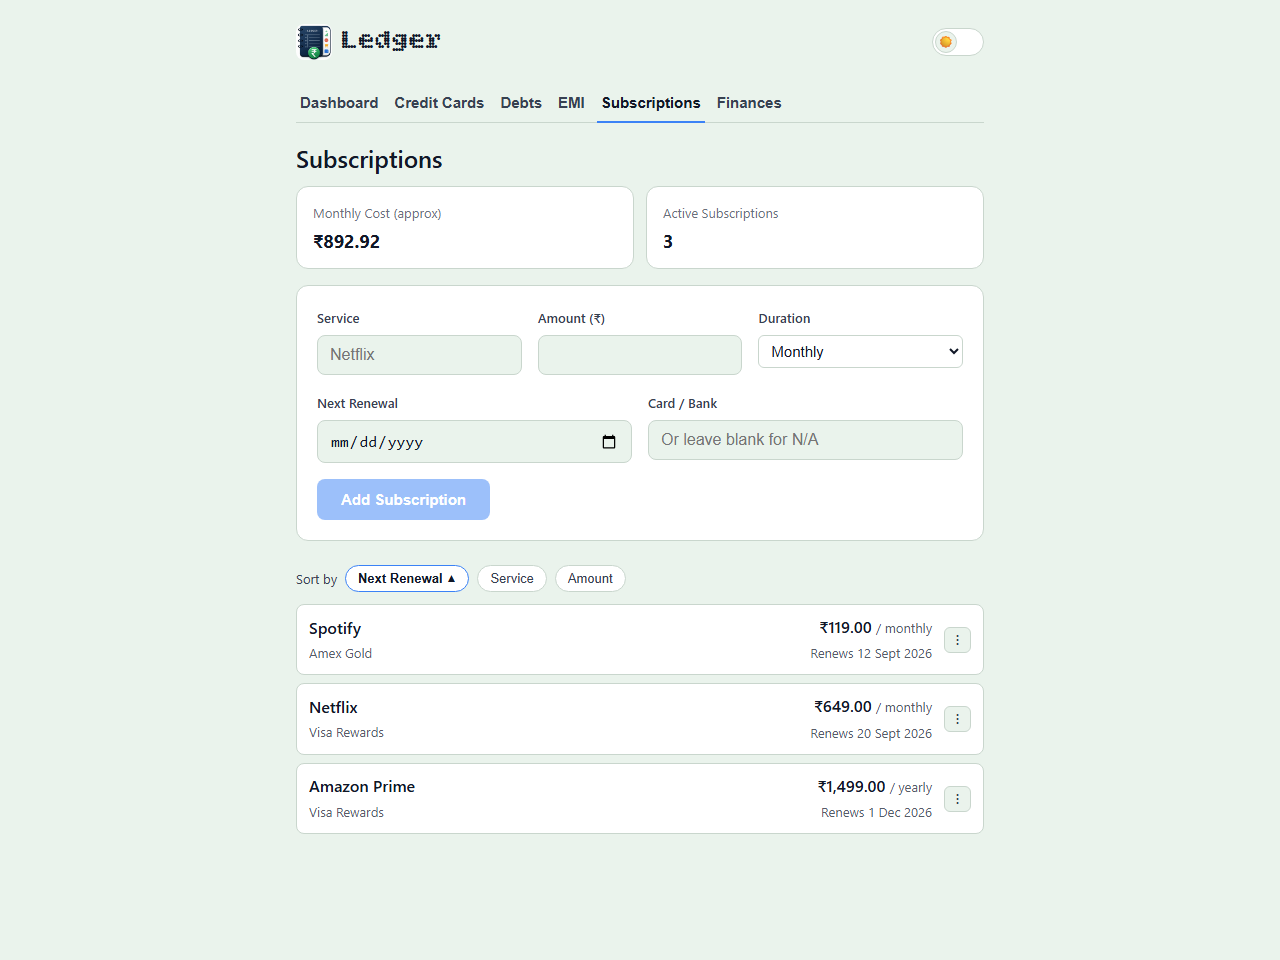
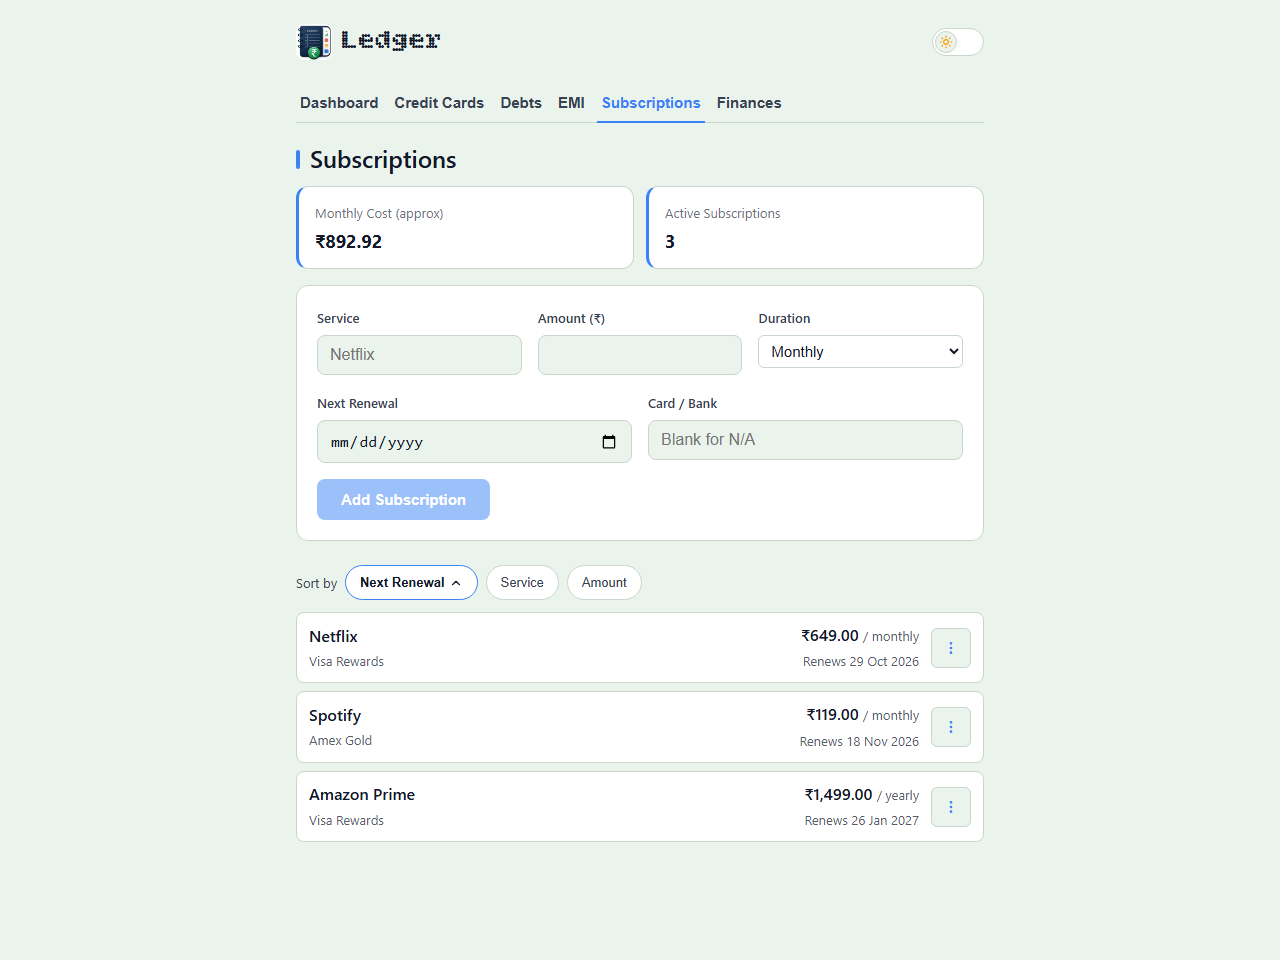
docs: npm run screenshots regenerates every README screenshot
Only the two Dashboard images were produced by the script; the other 14
README screenshots (each tab, and the Expenses form and list, light and
dark) were made by hand, so a UI change like the new icons and accents
left them stale with no safe way to refresh them. The script now seeds a
few fictional expenses too and captures every image the README embeds,
still against a scratch data folder with the empty-tab check first.

All 16 screenshots are regenerated with the new icons and accents.

diff --git a/e2e/screenshots.ts b/e2e/screenshots.ts
@@ -1,8 +1,9 @@
 /**
- * Regenerates docs/screenshots/dashboard.png and dashboard-dark.png against
- * a fixed, fictional demo dataset (Alex/Sam, Visa Rewards/Amex Gold, Car
- * Loan/Home Loan, Netflix/Spotify/Amazon Prime, Emergency Fund/PPF/NPS/APY —
- * the same cast every other screenshot in docs/screenshots already uses).
+ * Regenerates every README screenshot in docs/screenshots/ (Dashboard,
+ * Expenses form and list, and each tab, in light and dark) against a fixed,
+ * fictional demo dataset (Alex/Sam, Visa Rewards/Amex Gold, Car Loan/Home
+ * Loan, Netflix/Spotify/Amazon Prime, Emergency Fund/PPF/NPS/APY, and a few
+ * everyday expenses), so a UI change can refresh them all in one run.
  *
  * Isolation follows the exact same recipe as e2e/regression.ts, for the same
  * reason: `LEDGER_DB_DIR` is passed as an env var straight to the spawned
@@ -242,8 +243,89 @@ async function main() {
     await page.waitForTimeout(300);
     await page.screenshot({ path: path.join(SCREENSHOTS_DIR, "dashboard-dark.png") });
 
+    // --- One screenshot per tab, top of the page (dark first, since the
+    // theme is already dark from the Dashboard shot above) ---
+    const TAB_SHOTS: [label: string, file: string][] = [
+      ["Finances", "finances"],
+      ["Debts", "debts"],
+      ["Credit Cards", "credit-cards"],
+      ["EMI", "emi"],
+      ["Subscriptions", "subscriptions"],
+    ];
+    const shootTabs = async (suffix: string) => {
+      for (const [label, file] of TAB_SHOTS) {
+        await page.click(`.tabs button:has-text("${label}")`);
+        await page.waitForSelector(".loading-overlay", { state: "detached" });
+        await page.evaluate(() => window.scrollTo(0, 0));
+        await page.waitForTimeout(300);
+        await page.screenshot({ path: path.join(SCREENSHOTS_DIR, `${file}${suffix}.png`) });
+      }
+    };
+    await shootTabs("-dark");
+    await page.click(".theme-toggle");
+    await page.waitForTimeout(300);
+    await shootTabs("");
+
+    // --- Expenses: reached by clicking this month on the Dashboard chart ---
+    await page.click('.tabs button:has-text("Dashboard")');
+    await page.waitForSelector(".chart-wrap svg");
+    await page.locator(".chart-wrap").scrollIntoViewIfNeeded();
+    // No expenses exist yet, so there are no bars to target: click the middle
+    // of this month's column in the plot area instead (the chart's click
+    // handler only needs the hovered column). Re-measured each attempt, since
+    // Recharts can re-mount its elements right after render.
+    const monthIndex = new Date().getMonth();
+    for (let attempt = 0; attempt < 20 && (await page.locator(".add-expense-form").count()) === 0; attempt++) {
+      const grid = page.locator(".chart-wrap .recharts-cartesian-grid").first();
+      const gridBox = await grid.boundingBox({ timeout: 2000 }).catch(() => null);
+      if (gridBox) {
+        const x = gridBox.x + ((monthIndex + 0.5) * gridBox.width) / 12;
+        await page.mouse.move(x, gridBox.y + gridBox.height / 2, { steps: 8 });
+        await page.waitForTimeout(150);
+        await page.mouse.down();
+        await page.mouse.up();
+      }
+      await page.waitForTimeout(400);
+    }
+    await page.waitForSelector(".add-expense-form");
+    await assertEmpty(page, ".entry-row", "Expenses");
+
+    const fillExpense = async (amount: string, remarks: string, category: string, card: boolean) => {
+      await page.fill('.add-expense-form input[placeholder="0.00"]', amount);
+      await page.fill('.add-expense-form input[placeholder="What was this for?"]', remarks);
+      await page.click(`.add-expense-form .category-chip:has-text("${category}")`);
+      await page.click(`.add-expense-form .payment-toggle button:has-text("${card ? "Credit Card" : "Cash"}")`);
+    };
+    const addExpense = async (amount: string, remarks: string, category: string, card = false) => {
+      await fillExpense(amount, remarks, category, card);
+      await page.click(".add-expense-form .submit-btn");
+      await page.waitForSelector(`.entry-row:has-text("${remarks}")`);
+    };
+    await addExpense("1200", "Movie night", "Other");
+    await addExpense("18000", "Monthly rent", "Rent");
+    await addExpense("320", "Cab to airport", "Transportation", true);
+    await addExpense("850", "Grocery run", "Food");
+
+    // The form filled in (light, then dark), then the same entry saved into
+    // the month's list (dark, then light).
+    await fillExpense("250", "Coffee with a friend", "Food", false);
+    await page.evaluate(() => window.scrollTo(0, 0));
+    await page.waitForTimeout(300);
+    await page.screenshot({ path: path.join(SCREENSHOTS_DIR, "add-expense.png") });
+    await page.click(".theme-toggle");
+    await page.waitForTimeout(300);
+    await page.screenshot({ path: path.join(SCREENSHOTS_DIR, "add-expense-dark.png") });
+    await page.click(".add-expense-form .submit-btn");
+    await page.waitForSelector('.entry-row:has-text("Coffee with a friend")');
+    await page.evaluate(() => window.scrollTo(0, 0));
+    await page.waitForTimeout(300);
+    await page.screenshot({ path: path.join(SCREENSHOTS_DIR, "recent-entries-dark.png") });
+    await page.click(".theme-toggle");
+    await page.waitForTimeout(300);
+    await page.screenshot({ path: path.join(SCREENSHOTS_DIR, "recent-entries.png") });
+
     await browser.close();
-    console.log(`\nWrote dashboard.png and dashboard-dark.png to ${SCREENSHOTS_DIR}`);
+    console.log(`\nWrote every docs/screenshots/*.png (light and dark) to ${SCREENSHOTS_DIR}`);
   } finally {
     console.log("Stopping dev server...");
     if (devProcess.pid) {

diff --git a/README.md b/README.md
@@ -794,11 +794,11 @@ Two suites, covering different layers:
   any client-side change, or before considering a session's changes done.
 
 - **`npm run screenshots`** — `e2e/screenshots.ts` (Playwright, plain
-  script). Regenerates `docs/screenshots/dashboard.png` and
-  `dashboard-dark.png` against a fixed fictional demo dataset (Alex/Sam,
-  Visa Rewards/Amex Gold, Car Loan/Home Loan, Netflix/Spotify/Amazon Prime,
-  Emergency Fund/PPF/NPS/APY — the same cast every other screenshot already
-  uses). Deliberately copies `e2e/regression.ts`'s exact isolation recipe
+  script). Regenerates every screenshot in `docs/screenshots/` (Dashboard,
+  the Expenses form and list, and each tab, light and dark) against a fixed
+  fictional demo dataset (Alex/Sam, Visa Rewards/Amex Gold, Car Loan/Home
+  Loan, Netflix/Spotify/Amazon Prime, Emergency Fund/PPF/NPS/APY, and a few
+  everyday expenses). Deliberately copies `e2e/regression.ts`'s exact isolation recipe
   (`LEDGER_DB_DIR` passed as an env var to a `npm run dev` spawned on this
   checkout's own ports, never a separate custom port) rather than a
   from-scratch setup — see the comment at the top of the file for why: an

diff --git a/ARCHITECTURE.md b/ARCHITECTURE.md
@@ -293,8 +293,8 @@ gives every entry.
   Cards), theme persistence. Not the `@playwright/test` runner — a plain
   script was simpler than wiring up its `webServer` orchestration for one
   script.
-- **`e2e/screenshots.ts` (Playwright, plain script)** — regenerates the
-  Dashboard screenshots in `docs/screenshots/` against a fixed fictional
+- **`e2e/screenshots.ts` (Playwright, plain script)** — regenerates every
+  README screenshot in `docs/screenshots/` against a fixed fictional
   demo dataset, reusing `regression.ts`'s exact isolation recipe (scratch
   `LEDGER_DB_DIR` passed to a `npm run dev` spawned on this checkout's own
   ports) rather than any custom port setup, plus an explicit empty-tab
